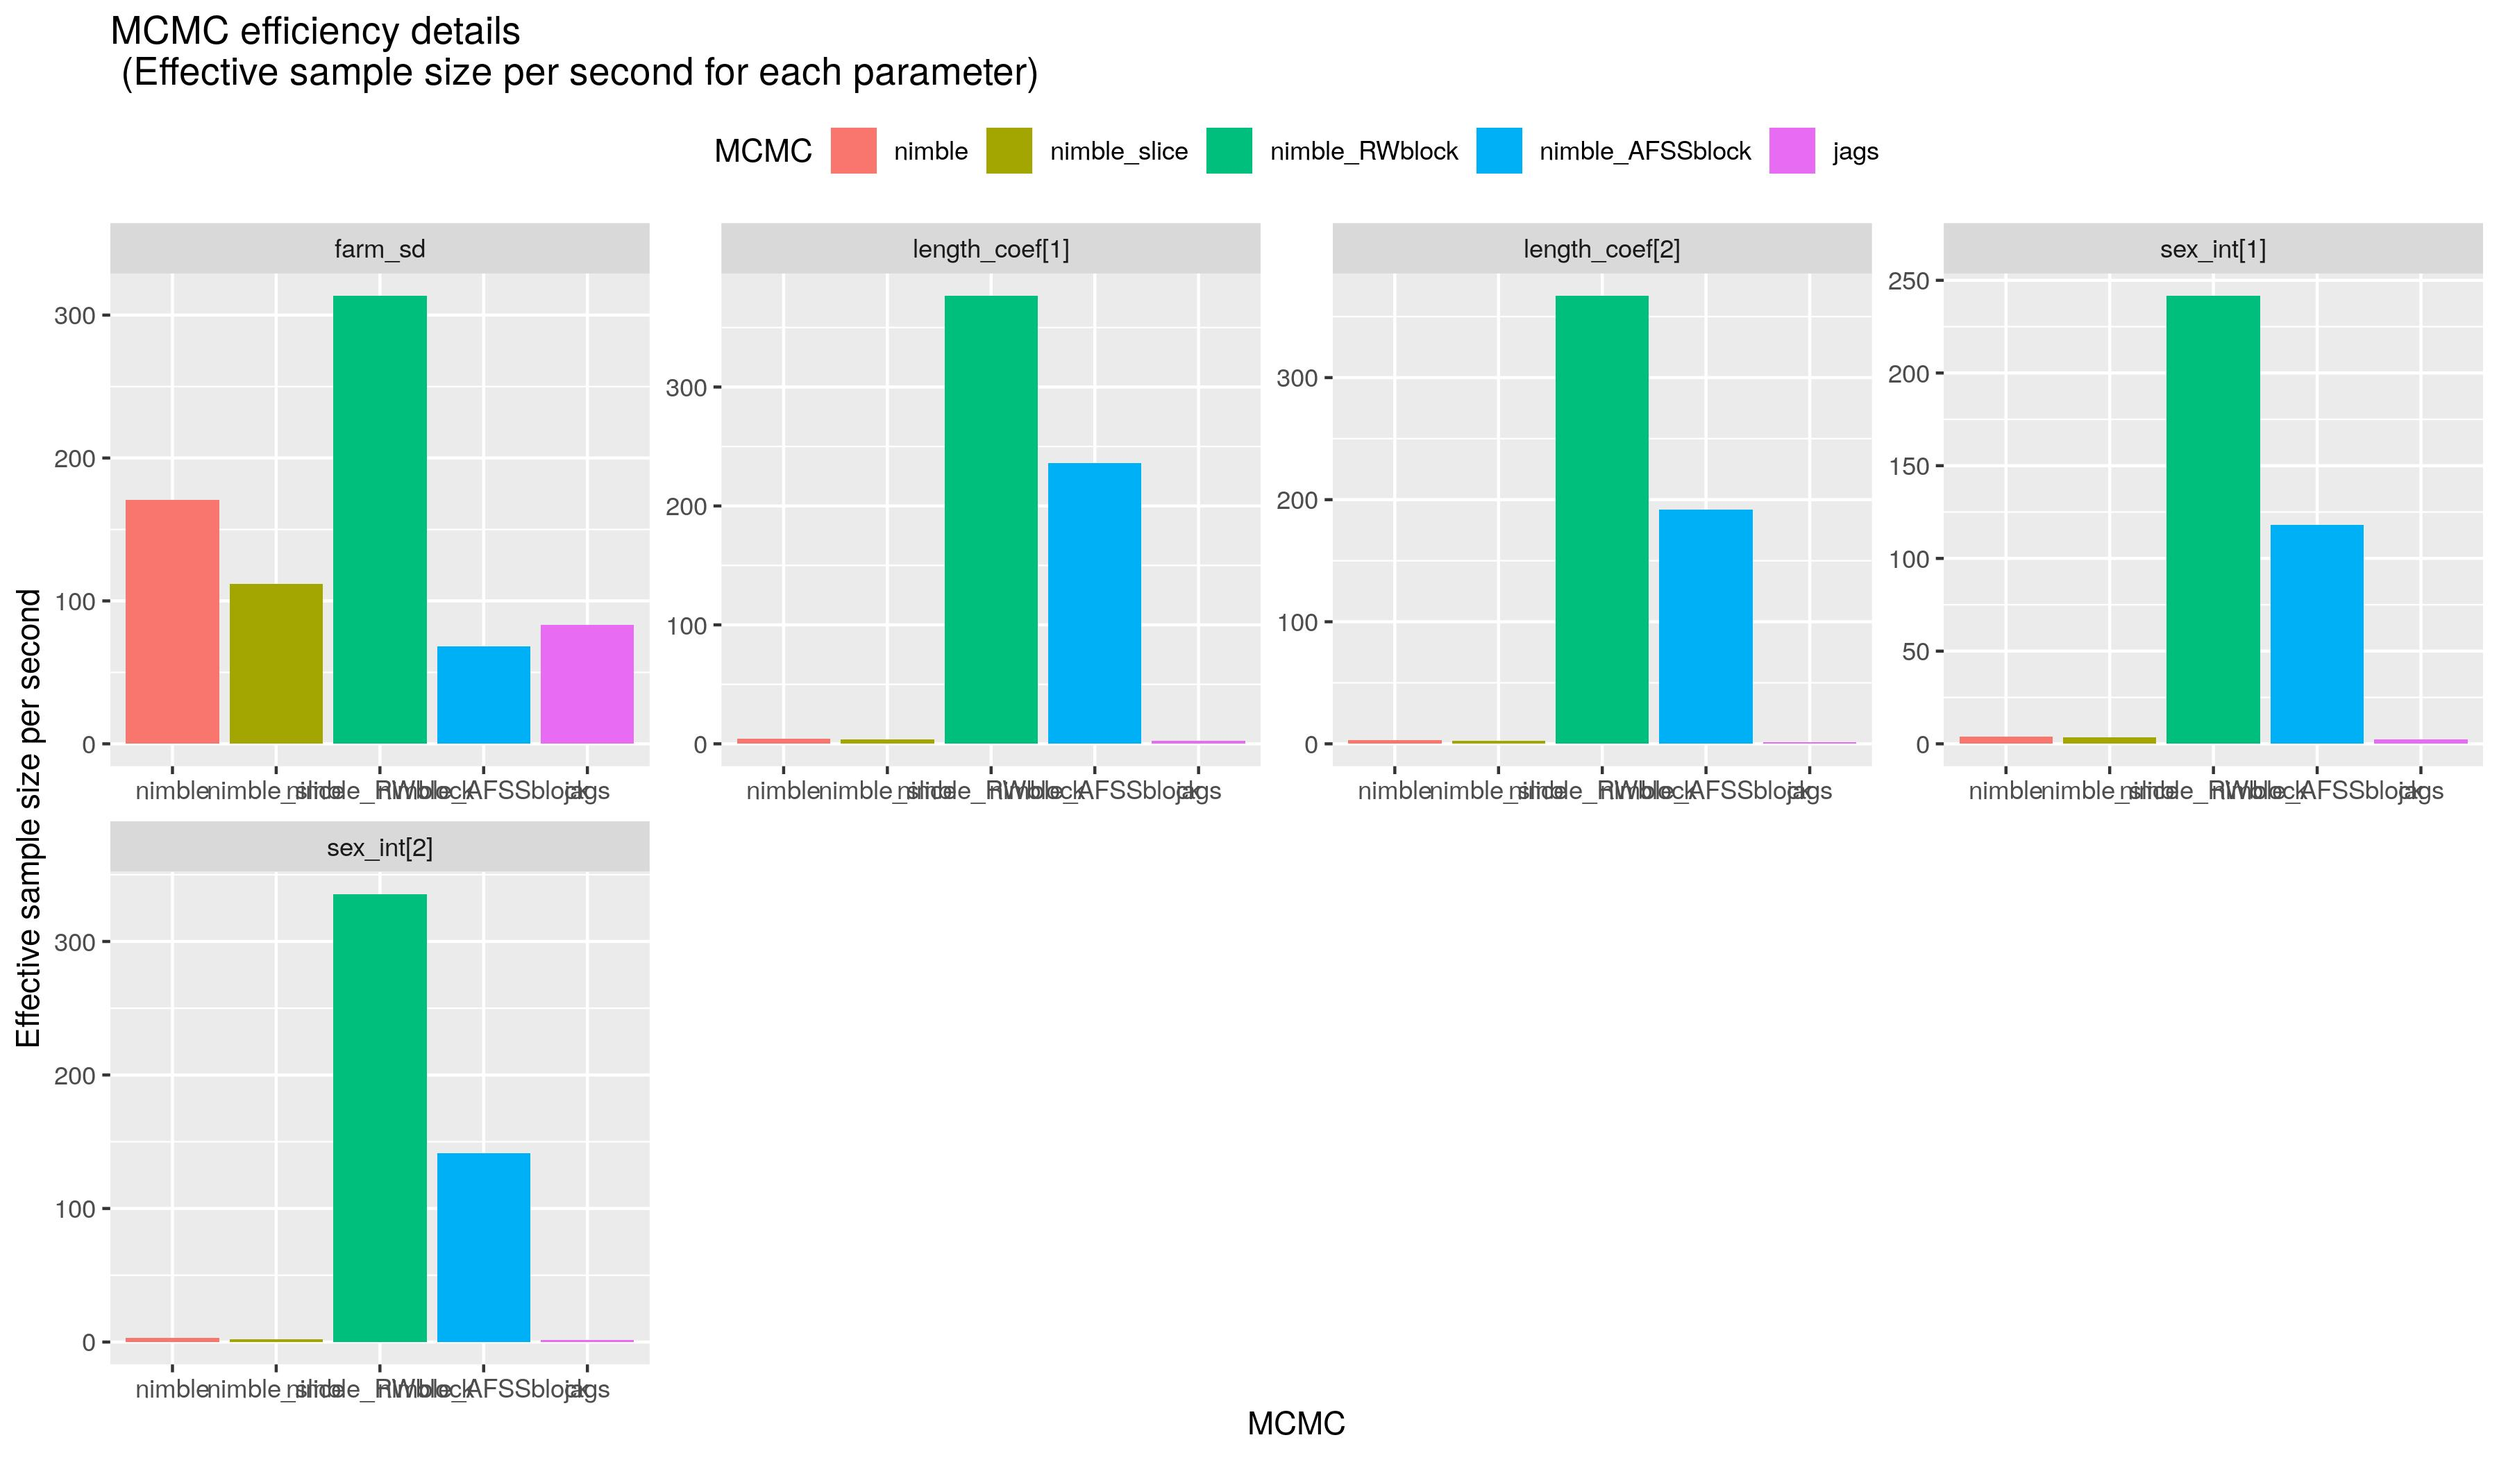
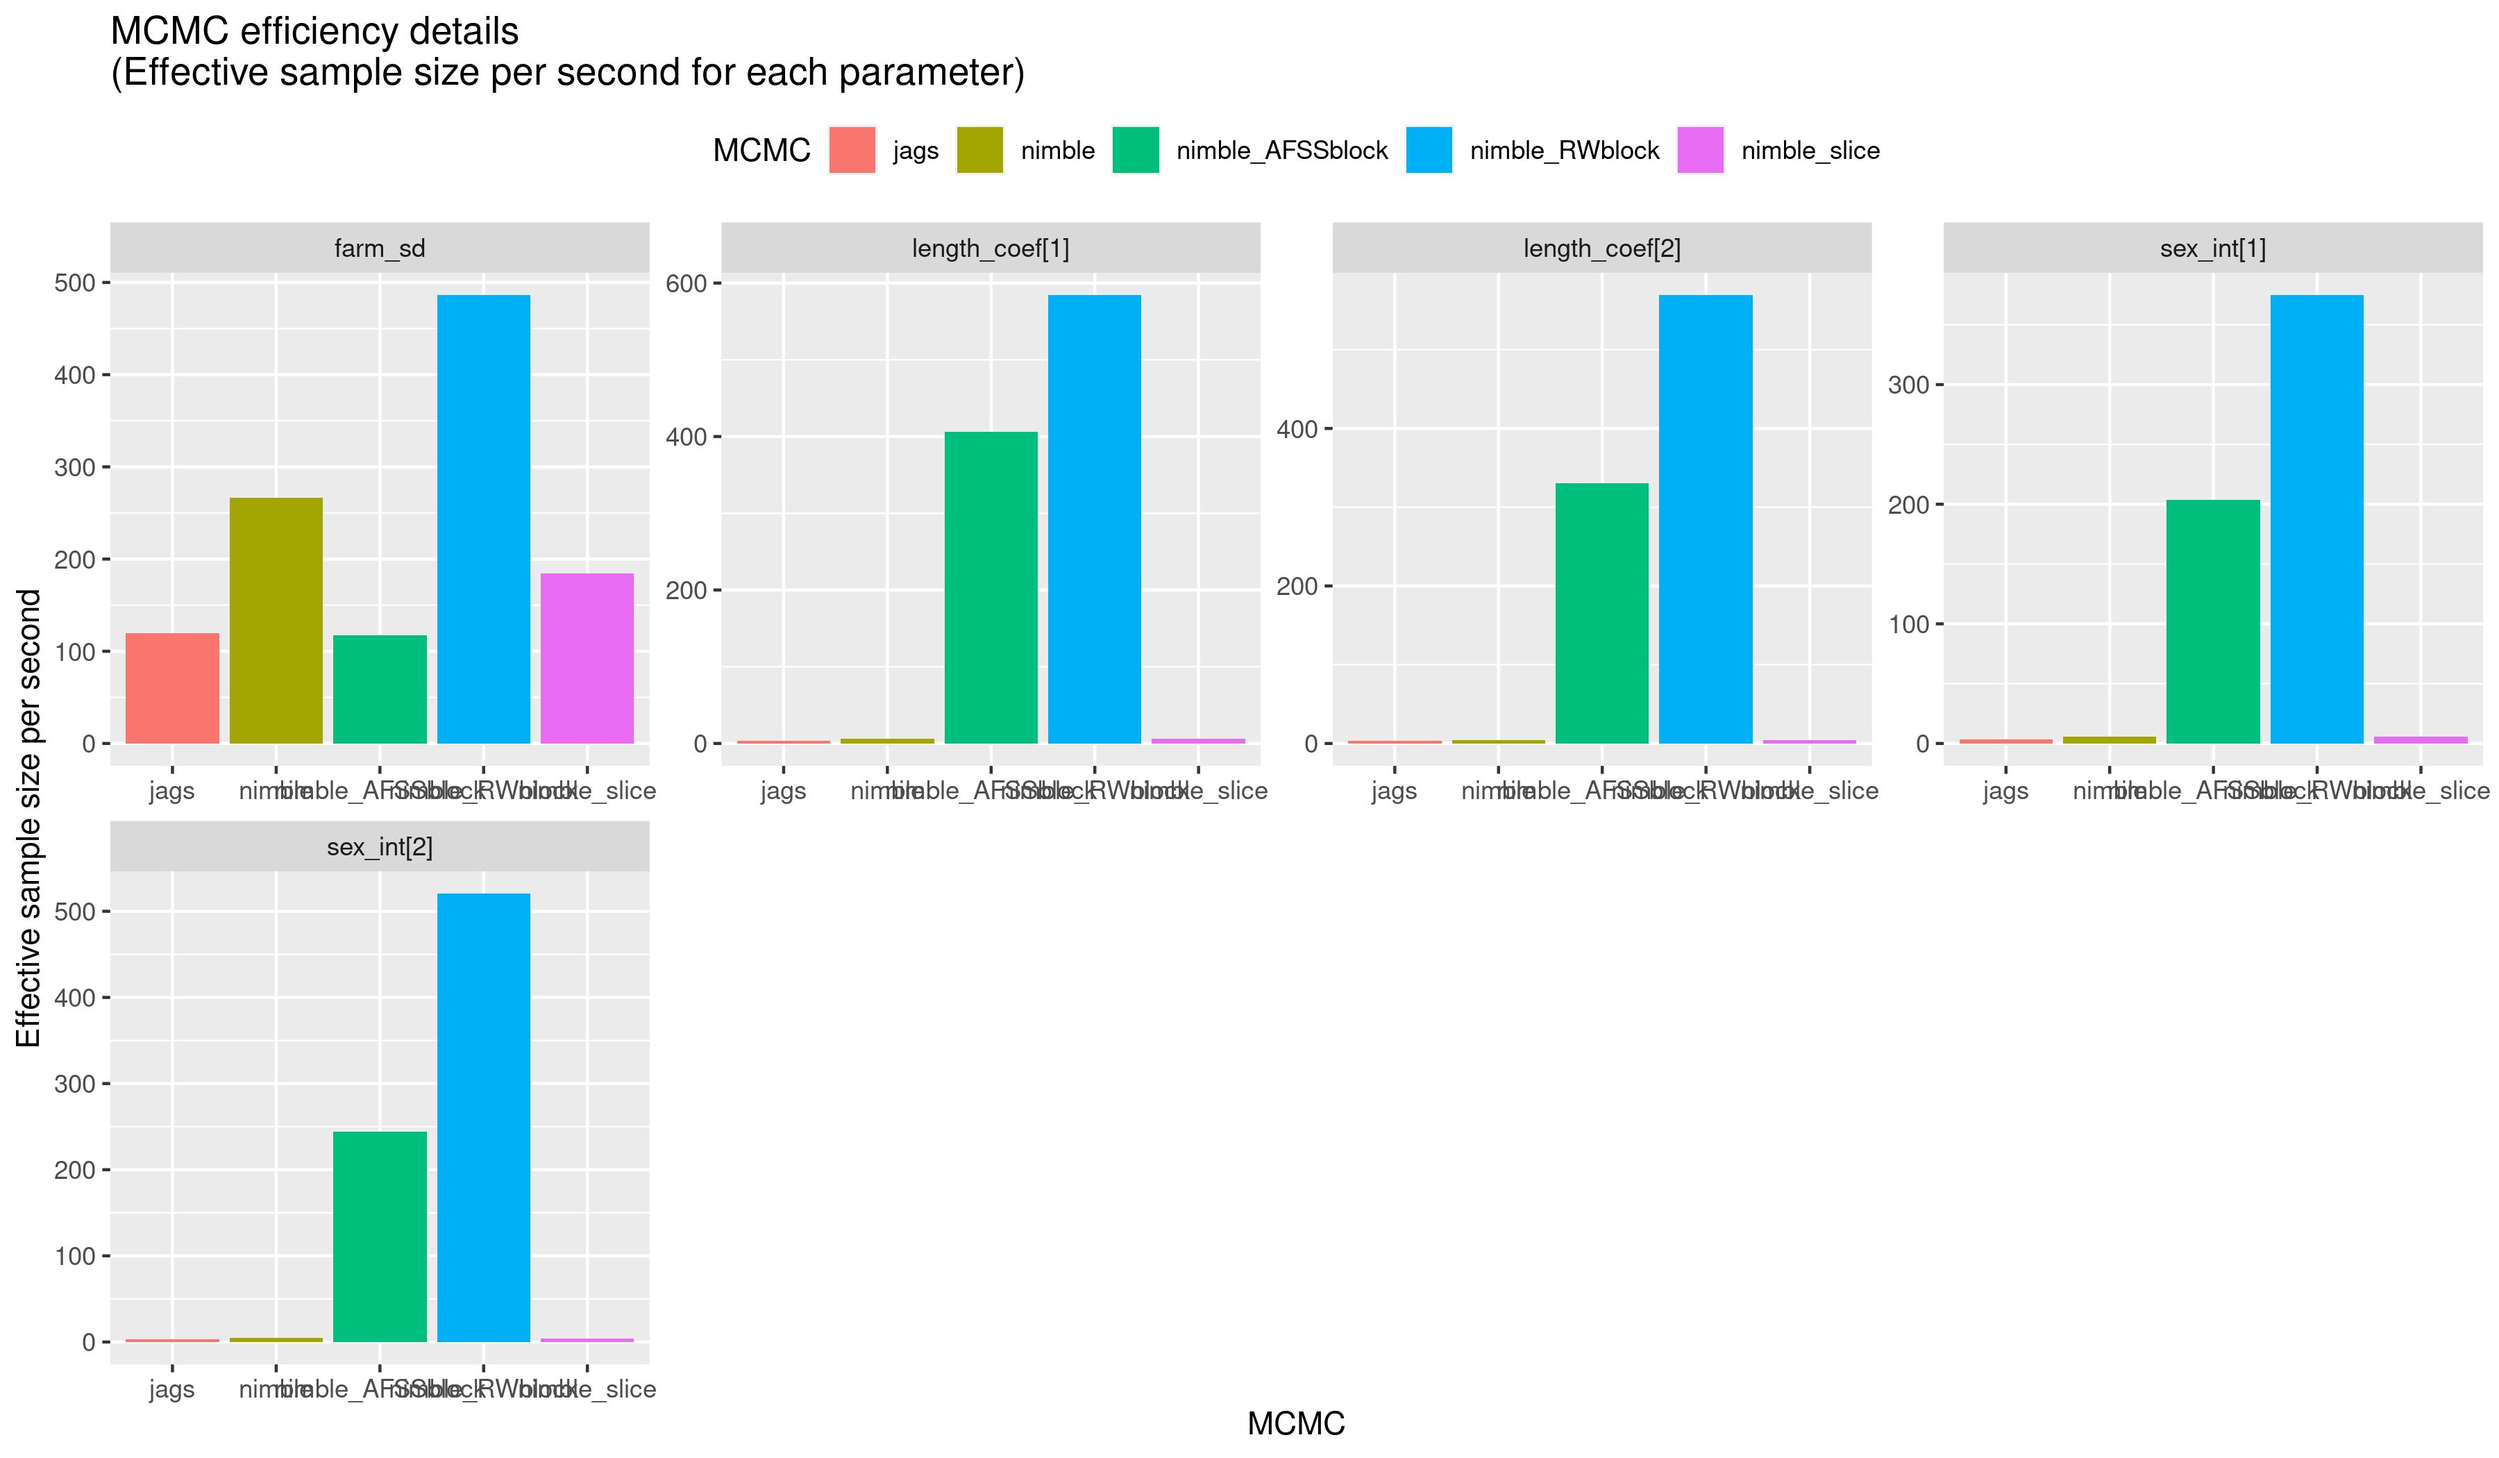
update compareMCMC output

diff --git a/content/4_improving_mcmc/orig_deer_ecervi_uncLen_results.html b/content/4_improving_mcmc/orig_deer_ecervi_uncLen_results.html
@@ -6,16 +6,29 @@
               <body>
 
               <h1>orig_deer_ecervi_uncLen_results</h1>
-<a href='#p1'>MCMC efficiency summary (with all parameters)</a><br>
-<a href='#p2'>MCMC pace summary (with all parameters)</a><br>
-<a href='#p3'>MCMC efficiency details</a><br>
-<a href='#p4'>Posterior summaries</a><br><br><h2 id='_efficiencySummaryAll'>MCMC efficiency summary (with all parameters)</h2>
-                        <img id='p1' src="orig_deer_ecervi_uncLen_results_efficiencySummaryAll.jpg"height = "600" width = "1500"</img>
+<a href='#p1'>MCMC sampling time</a><br>
+<a href='#p2'>MCMC efficiency summary (with all parameters)</a><br>
+<a href='#p3'>MCMC pace summary (with all parameters)</a><br>
+<a href='#p4'>MCMC efficiency details</a><br>
+<a href='#p5'>Posterior summaries</a><br><h2 id='p1'>MCMC sampling time</h2>
+<!-- html table generated in R 4.2.2 by xtable 1.8-4 package -->
+<!-- Thu Dec 29 12:25:49 2022 -->
+<table border=1>
+<tr> <th> MCMC </th> <th> burnin </th> <th> post-burnin </th> <th> total sampling </th>  </tr>
+  <tr> <td> nimble </td> <td align="right"> 0.94 </td> <td align="right"> 8.45 </td> <td align="right"> 9.39 </td> </tr>
+  <tr> <td> nimble_slice </td> <td align="right"> 3.83 </td> <td align="right"> 34.49 </td> <td align="right"> 38.32 </td> </tr>
+  <tr> <td> nimble_RWblock </td> <td align="right"> 0.63 </td> <td align="right"> 5.67 </td> <td align="right"> 6.30 </td> </tr>
+  <tr> <td> nimble_AFSSblock </td> <td align="right"> 2.71 </td> <td align="right"> 24.35 </td> <td align="right"> 27.05 </td> </tr>
+  <tr> <td> jags </td> <td align="right"> 4.62 </td> <td align="right"> 41.49 </td> <td align="right"> 46.11 </td> </tr>
+   </table>
+
+<br><h2 id='_efficiencySummaryAll'>MCMC efficiency summary (with all parameters)</h2>
+                        <img id='p2' src="orig_deer_ecervi_uncLen_results_efficiencySummaryAll.jpg"height = "600" width = "1500"</img>
 <br><h2 id='_paceSummaryAll'>MCMC pace summary (with all parameters)</h2>
-                        <img id='p2' src="orig_deer_ecervi_uncLen_results_paceSummaryAll.jpg"height = "600" width = "1500"</img>
+                        <img id='p3' src="orig_deer_ecervi_uncLen_results_paceSummaryAll.jpg"height = "600" width = "1500"</img>
 <br><h2 id='_efficiencyDetails'>MCMC efficiency details</h2>
-                        <img id='p3' src="orig_deer_ecervi_uncLen_results_efficiencyDetails.jpg"height="700" width="1200"</img>
+                        <img id='p4' src="orig_deer_ecervi_uncLen_results_efficiencyDetails.jpg"height="700" width="1200"</img>
 <br><h2 id='_posteriorSummary'>Posterior summaries</h2>
-                        <img id='p4' src="orig_deer_ecervi_uncLen_results_posteriorSummary.jpg"height="700" width="1200"</img>
+                        <img id='p5' src="orig_deer_ecervi_uncLen_results_posteriorSummary.jpg"height="700" width="1200"</img>
               </body>
               </html>

diff --git a/content/4_improving_mcmc/orig_deer_ecervi_cenLen_results.html b/content/4_improving_mcmc/orig_deer_ecervi_cenLen_results.html
@@ -1,0 +1,32 @@
+<!DOCTYPE html PUBLIC>
+              <html>
+              <head>
+              <link rel='stylesheet' type='text/css' href='style.css'/>
+              </head>
+              <body>
+
+              <h1>orig_deer_ecervi_cenLen_results</h1>
+<a href='#p1'>MCMC sampling time</a><br>
+<a href='#p2'>MCMC efficiency summary (with all parameters)</a><br>
+<a href='#p3'>MCMC pace summary (with all parameters)</a><br>
+<a href='#p4'>MCMC efficiency details</a><br>
+<a href='#p5'>Posterior summaries</a><br><h2 id='p1'>MCMC sampling time</h2>
+<!-- html table generated in R 4.2.2 by xtable 1.8-4 package -->
+<!-- Thu Dec 29 12:25:47 2022 -->
+<table border=1>
+<tr> <th> MCMC </th> <th> burnin </th> <th> post-burnin </th> <th> total sampling </th>  </tr>
+  <tr> <td> nimble </td> <td align="right"> 0.80 </td> <td align="right"> 7.24 </td> <td align="right"> 8.04 </td> </tr>
+  <tr> <td> nimble_slice </td> <td align="right"> 3.17 </td> <td align="right"> 28.57 </td> <td align="right"> 31.75 </td> </tr>
+  <tr> <td> nimble_HMC </td> <td align="right"> 3.05 </td> <td align="right"> 12.19 </td> <td align="right"> 15.24 </td> </tr>
+   </table>
+
+<br><h2 id='_efficiencySummaryAll'>MCMC efficiency summary (with all parameters)</h2>
+                        <img id='p2' src="orig_deer_ecervi_cenLen_results_efficiencySummaryAll.jpg"height = "600" width = "1500"</img>
+<br><h2 id='_paceSummaryAll'>MCMC pace summary (with all parameters)</h2>
+                        <img id='p3' src="orig_deer_ecervi_cenLen_results_paceSummaryAll.jpg"height = "600" width = "1500"</img>
+<br><h2 id='_efficiencyDetails'>MCMC efficiency details</h2>
+                        <img id='p4' src="orig_deer_ecervi_cenLen_results_efficiencyDetails.jpg"height="900" width="1200"</img>
+<br><h2 id='_posteriorSummary'>Posterior summaries</h2>
+                        <img id='p5' src="orig_deer_ecervi_cenLen_results_posteriorSummary.jpg"height="900" width="1200"</img>
+              </body>
+              </html>
